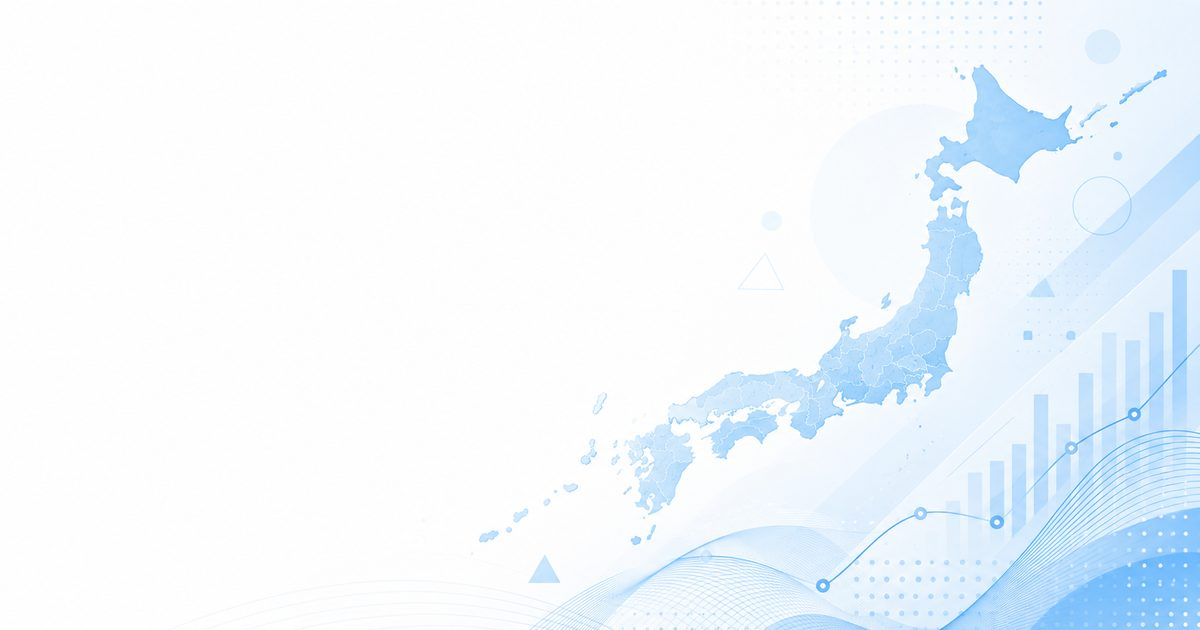
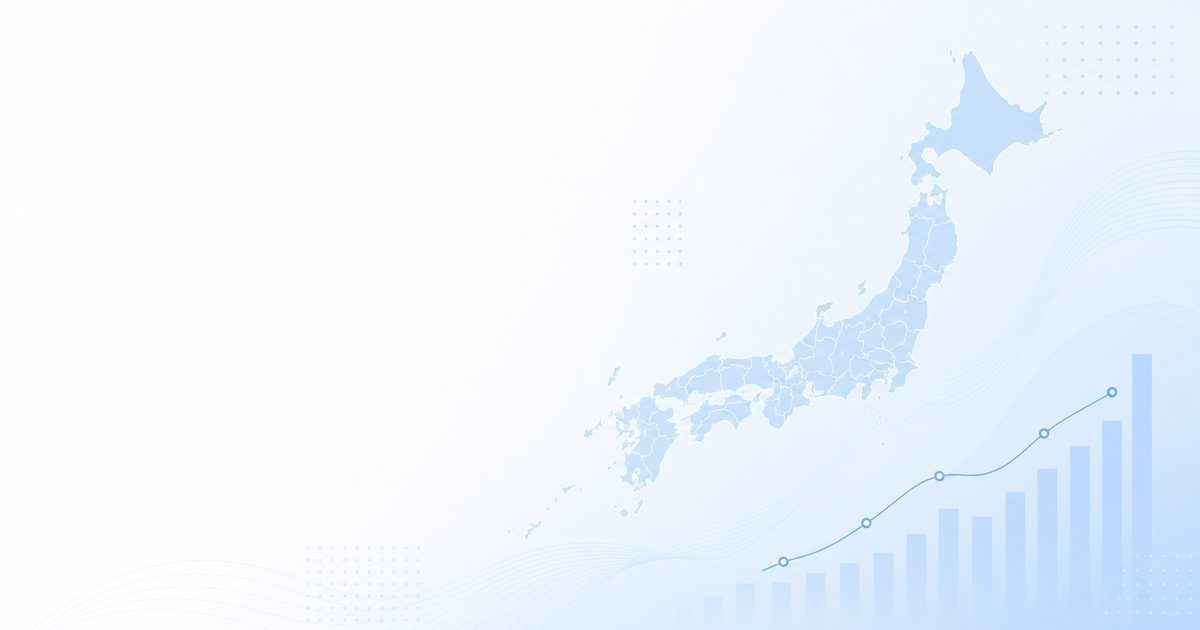
feat(ogp): リンクカード/OGP背景を新ブランド背景に刷新 + カード比率統一
- ブランド背景 light/dark を専用生成の日本地図+チャート版に差し替え
  (ogp-bg-brand-{light,dark}.jpg)。元PNGは scripts/lib/assets/source/ に保管
- ブログカードのアスペクト比を全画面 1200×630 に統一
  (blog-article-grid の md:aspect-square 撤去 / トップ・カテゴリの aspect-square → 1200/630)
  → 1枚の背景がクロップ無しでカード/OGP兼用
- 既存記事のサムネ/OGP 再生成は別途 --force --apply で反映

diff --git a/apps/web/src/features/blog/components/blog-article-grid.tsx b/apps/web/src/features/blog/components/blog-article-grid.tsx
@@ -37,7 +37,7 @@ export function BlogArticleGrid({ articles, firstPagePriority = false }: BlogArt
                         href={`/blog/${article.slug}`}
                         className="group block overflow-hidden rounded-none border transition-shadow duration-200 hover:shadow-md"
                     >
-                        <div className="relative aspect-[1200/630] w-full bg-muted overflow-hidden md:aspect-square">
+                        <div className="relative aspect-[1200/630] w-full bg-muted overflow-hidden">
                             <ThemeAwareImage
                                 lightSrc={`${R2_PUBLIC_URL}/app/blog/${article.slug}/thumbnail-light.webp`}
                                 darkSrc={`${R2_PUBLIC_URL}/app/blog/${article.slug}/thumbnail-dark.webp`}

diff --git a/apps/web/src/app/page.tsx b/apps/web/src/app/page.tsx
@@ -237,7 +237,7 @@ export default async function HomePage() {
                     href={`/blog/${article.slug}`}
                     className="group block overflow-hidden rounded-none border border-border bg-card transition-shadow hover:shadow-md"
                   >
-                    <div className="relative aspect-square w-full overflow-hidden bg-muted">
+                    <div className="relative aspect-[1200/630] w-full overflow-hidden bg-muted">
                       <ThemeAwareImage
                         lightSrc={`${r2}/app/blog/${article.slug}/thumbnail-light.webp`}
                         darkSrc={`${r2}/app/blog/${article.slug}/thumbnail-dark.webp`}

diff --git a/apps/web/src/app/category/[categoryKey]/page.tsx b/apps/web/src/app/category/[categoryKey]/page.tsx
@@ -291,7 +291,7 @@ export default async function CategoryPage({ params }: PageProps) {
                 href={`/blog/${article.slug}`}
                 className="group block rounded-sm border border-border overflow-hidden hover:border-primary/50 transition-colors"
               >
-                <div className="relative aspect-square w-full bg-muted overflow-hidden">
+                <div className="relative aspect-[1200/630] w-full bg-muted overflow-hidden">
                   <ThemeAwareImage
                     lightSrc={`${r2Url}/app/blog/${article.slug}/thumbnail-light.webp`}
                     darkSrc={`${r2Url}/app/blog/${article.slug}/thumbnail-dark.webp`}
